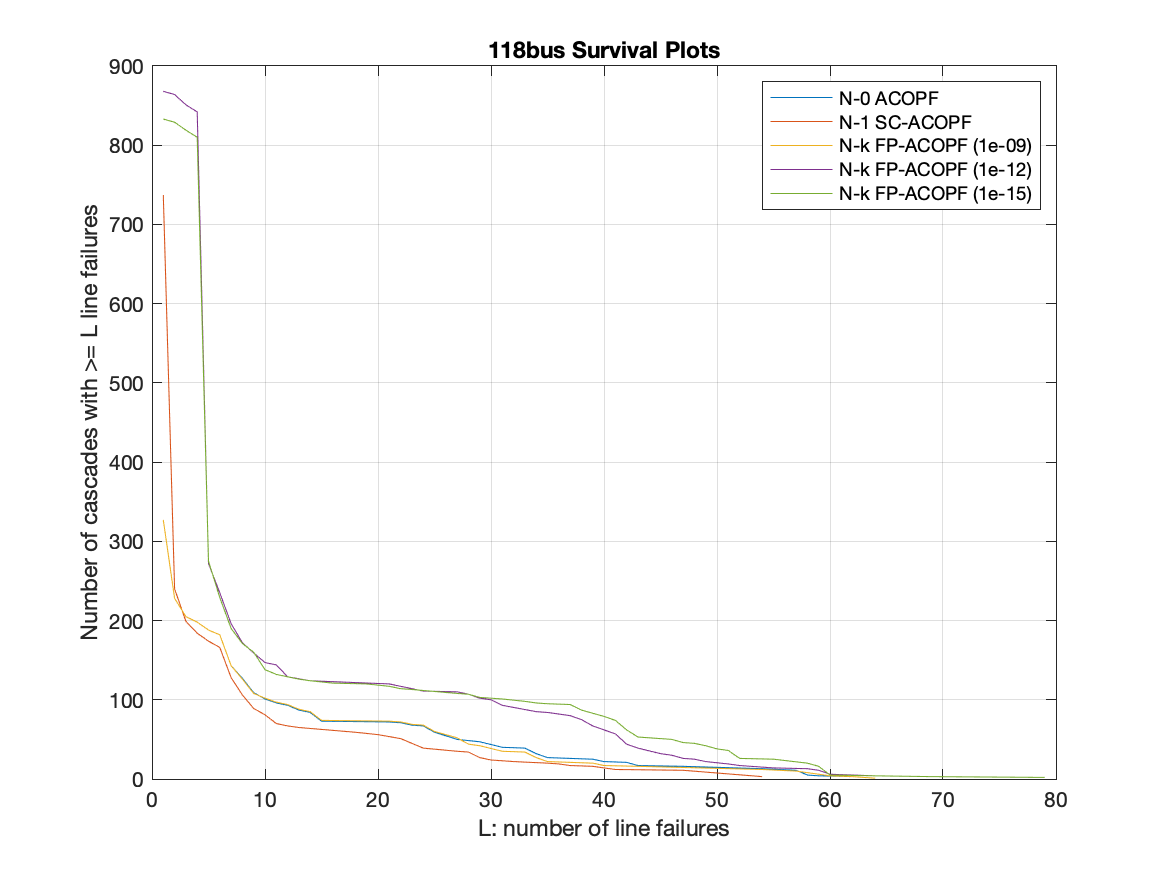
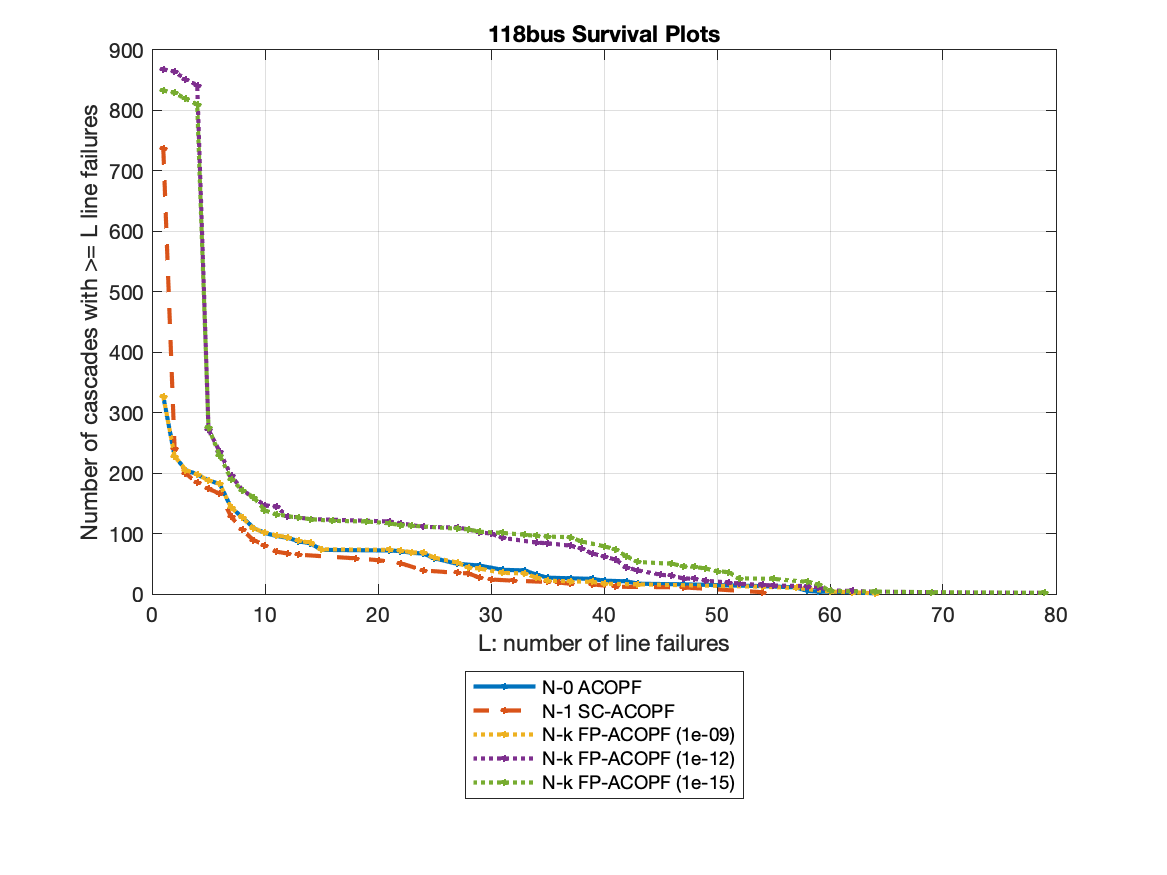
new figs

diff --git a/cascade_comparison_script_ics.m b/cascade_comparison_script_ics.m
@@ -75,31 +75,35 @@ plot_cascade_severity(co_2,'118bus N-1 SC-ACOPF','lines');
 plot_cascade_severity(co_3,'118bus N-k FP-ACOPF 1e-09','lines');
 plot_cascade_severity(co_4,'118bus N-k FP-ACOPF 1e-12','lines');
 plot_cascade_severity(co_5,'118bus N-k FP-ACOPF 1e-15','lines');
-plot_cascade_severity(co_1,'118bus N-0 ACOPF','load');
-plot_cascade_severity(co_2,'118bus N-1 SC-ACOPF','load');
-plot_cascade_severity(co_3,'118bus N-k FP-ACOPF 1e-09','load');
-plot_cascade_severity(co_4,'118bus N-k FP-ACOPF 1e-12','load');
-plot_cascade_severity(co_5,'118bus N-k FP-ACOPF 1e-15','load');
+% plot_cascade_severity(co_1,'118bus N-0 ACOPF','load');
+% plot_cascade_severity(co_2,'118bus N-1 SC-ACOPF','load');
+% plot_cascade_severity(co_3,'118bus N-k FP-ACOPF 1e-09','load');
+% plot_cascade_severity(co_4,'118bus N-k FP-ACOPF 1e-12','load');
+% plot_cascade_severity(co_5,'118bus N-k FP-ACOPF 1e-15','load');
 
 %
 %%
 %%% plotting survival
 dispatch_types = {'N-0 ACOPF', 'N-1 SC-ACOPF', 'N-k FP-ACOPF (1e-09)', 'N-k FP-ACOPF (1e-12)', 'N-k FP-ACOPF (1e-15)'};
 fnames = {co_1, co_2, co_3, co_4, co_5};
-%cdf
-plot_cascade_survival(fnames,dispatch_types,'118bus Survival Plots','lines','proportion','cdf',       'mpc_lowdamp_pgliblimits');
-plot_cascade_survival(fnames,dispatch_types,'118bus Survival Plots','lines','number','cdf',           'mpc_lowdamp_pgliblimits');
-plot_cascade_survival(fnames,dispatch_types,'118bus Survival Plots','loadlost','proportion','cdf',    'mpc_lowdamp_pgliblimits');
-plot_cascade_survival(fnames,dispatch_types,'118bus Survival Plots','loadlost','number','cdf',        'mpc_lowdamp_pgliblimits');
-plot_cascade_survival(fnames,dispatch_types,'118bus Survival Plots','loadserved','proportion','cdf',  'mpc_lowdamp_pgliblimits');
-plot_cascade_survival(fnames,dispatch_types,'118bus Survival Plots','loadserved','number','cdf',      'mpc_lowdamp_pgliblimits');
+% %cdf
+% plot_cascade_survival(fnames,dispatch_types,'118bus Survival Plots','lines','proportion','cdf',       'mpc_lowdamp_pgliblimits');
+% plot_cascade_survival(fnames,dispatch_types,'118bus Survival Plots','lines','number','cdf',           'mpc_lowdamp_pgliblimits');
+% % plot_cascade_survival(fnames,dispatch_types,'118bus Survival Plots','loadlost','proportion','cdf',    'mpc_lowdamp_pgliblimits');
+% % plot_cascade_survival(fnames,dispatch_types,'118bus Survival Plots','loadlost','number','cdf',        'mpc_lowdamp_pgliblimits');
+% plot_cascade_survival(fnames,dispatch_types,'118bus Survival Plots','loadserved_all','proportion','cdf',  'mpc_lowdamp_pgliblimits');
+% plot_cascade_survival(fnames,dispatch_types,'118bus Survival Plots','loadserved_all','number','cdf',      'mpc_lowdamp_pgliblimits');
+% plot_cascade_survival(fnames,dispatch_types,'118bus Survival Plots','loadserved_lines','proportion','cdf',  'mpc_lowdamp_pgliblimits');
+% plot_cascade_survival(fnames,dispatch_types,'118bus Survival Plots','loadserved_lines','number','cdf',      'mpc_lowdamp_pgliblimits');
 %ccdf
 plot_cascade_survival(fnames,dispatch_types,'118bus Survival Plots','lines','proportion','ccdf',      'mpc_lowdamp_pgliblimits');
 plot_cascade_survival(fnames,dispatch_types,'118bus Survival Plots','lines','number','ccdf',          'mpc_lowdamp_pgliblimits');
-plot_cascade_survival(fnames,dispatch_types,'118bus Survival Plots','loadlost','proportion','ccdf',   'mpc_lowdamp_pgliblimits');
-plot_cascade_survival(fnames,dispatch_types,'118bus Survival Plots','loadlost','number','ccdf',       'mpc_lowdamp_pgliblimits');
-plot_cascade_survival(fnames,dispatch_types,'118bus Survival Plots','loadserved','proportion','ccdf', 'mpc_lowdamp_pgliblimits');
-plot_cascade_survival(fnames,dispatch_types,'118bus Survival Plots','loadserved','number','ccdf',     'mpc_lowdamp_pgliblimits');
+% plot_cascade_survival(fnames,dispatch_types,'118bus Survival Plots','loadlost','proportion','ccdf',   'mpc_lowdamp_pgliblimits');
+% plot_cascade_survival(fnames,dispatch_types,'118bus Survival Plots','loadlost','number','ccdf',       'mpc_lowdamp_pgliblimits');
+plot_cascade_survival(fnames,dispatch_types,'118bus Survival Plots','loadserved_all','proportion','ccdf', 'mpc_lowdamp_pgliblimits');
+plot_cascade_survival(fnames,dispatch_types,'118bus Survival Plots','loadserved_all','number','ccdf',     'mpc_lowdamp_pgliblimits');
+plot_cascade_survival(fnames,dispatch_types,'118bus Survival Plots','loadserved_lines','proportion','ccdf', 'mpc_lowdamp_pgliblimits');
+plot_cascade_survival(fnames,dispatch_types,'118bus Survival Plots','loadserved_lines','number','ccdf',     'mpc_lowdamp_pgliblimits');
 
 %
 %%
@@ -176,28 +180,36 @@ plot_cascade_severity(co_2,'118bus N-1 SC-ACOPF','lines');
 plot_cascade_severity(co_3,'118bus N-k FP-ACOPF 1e-09','lines');
 plot_cascade_severity(co_4,'118bus N-k FP-ACOPF 1e-12','lines');
 plot_cascade_severity(co_5,'118bus N-k FP-ACOPF 1e-15','lines');
-plot_cascade_severity(co_1,'118bus N-0 ACOPF','load');
-plot_cascade_severity(co_2,'118bus N-1 SC-ACOPF','load');
-plot_cascade_severity(co_3,'118bus N-k FP-ACOPF 1e-09','load');
-plot_cascade_severity(co_4,'118bus N-k FP-ACOPF 1e-12','load');
-plot_cascade_severity(co_5,'118bus N-k FP-ACOPF 1e-15','load');
+% plot_cascade_severity(co_1,'118bus N-0 ACOPF','load');
+% plot_cascade_severity(co_2,'118bus N-1 SC-ACOPF','load');
+% plot_cascade_severity(co_3,'118bus N-k FP-ACOPF 1e-09','load');
+% plot_cascade_severity(co_4,'118bus N-k FP-ACOPF 1e-12','load');
+% plot_cascade_severity(co_5,'118bus N-k FP-ACOPF 1e-15','load');
 
 %
 %%
 %%% plotting survival
 dispatch_types = {'N-0 ACOPF', 'N-1 SC-ACOPF', 'N-k FP-ACOPF (1e-09)', 'N-k FP-ACOPF (1e-12)', 'N-k FP-ACOPF (1e-15)'};
 fnames = {co_1, co_2, co_3, co_4, co_5};
-%cdf
-plot_cascade_survival(fnames,dispatch_types,'118bus Survival Plots','lines','proportion','cdf',      'mpc_lowdamp_pgliblimits_allprotection');
-plot_cascade_survival(fnames,dispatch_types,'118bus Survival Plots','lines','number','cdf',          'mpc_lowdamp_pgliblimits_allprotection');
-plot_cascade_survival(fnames,dispatch_types,'118bus Survival Plots','loadlost','proportion','cdf',   'mpc_lowdamp_pgliblimits_allprotection');
-plot_cascade_survival(fnames,dispatch_types,'118bus Survival Plots','loadlost','number','cdf',       'mpc_lowdamp_pgliblimits_allprotection');
-plot_cascade_survival(fnames,dispatch_types,'118bus Survival Plots','loadserved','proportion','cdf', 'mpc_lowdamp_pgliblimits_allprotection');
-plot_cascade_survival(fnames,dispatch_types,'118bus Survival Plots','loadserved','number','cdf',     'mpc_lowdamp_pgliblimits_allprotection');
+% %cdf
+% plot_cascade_survival(fnames,dispatch_types,'118bus Survival Plots','lines','proportion','cdf',      'mpc_lowdamp_pgliblimits_allprotection');
+% plot_cascade_survival(fnames,dispatch_types,'118bus Survival Plots','lines','number','cdf',          'mpc_lowdamp_pgliblimits_allprotection');
+% % plot_cascade_survival(fnames,dispatch_types,'118bus Survival Plots','loadlost','proportion','cdf',   'mpc_lowdamp_pgliblimits_allprotection');
+% % plot_cascade_survival(fnames,dispatch_types,'118bus Survival Plots','loadlost','number','cdf',       'mpc_lowdamp_pgliblimits_allprotection');
+% plot_cascade_survival(fnames,dispatch_types,'118bus Survival Plots','loadserved_all','proportion','cdf', 'mpc_lowdamp_pgliblimits_allprotection');
+% plot_cascade_survival(fnames,dispatch_types,'118bus Survival Plots','loadserved_all','number','cdf',     'mpc_lowdamp_pgliblimits_allprotection');
+% plot_cascade_survival(fnames,dispatch_types,'118bus Survival Plots','loadserved_lines','proportion','cdf', 'mpc_lowdamp_pgliblimits_allprotection');
+% plot_cascade_survival(fnames,dispatch_types,'118bus Survival Plots','loadserved_lines','number','cdf',     'mpc_lowdamp_pgliblimits_allprotection');
 %ccdf
 plot_cascade_survival(fnames,dispatch_types,'118bus Survival Plots','lines','proportion','ccdf',     'mpc_lowdamp_pgliblimits_allprotection');
 plot_cascade_survival(fnames,dispatch_types,'118bus Survival Plots','lines','number','ccdf',         'mpc_lowdamp_pgliblimits_allprotection');
-plot_cascade_survival(fnames,dispatch_types,'118bus Survival Plots','loadlost','proportion','ccdf',  'mpc_lowdamp_pgliblimits_allprotection');
-plot_cascade_survival(fnames,dispatch_types,'118bus Survival Plots','loadlost','number','ccdf',      'mpc_lowdamp_pgliblimits_allprotection');
-plot_cascade_survival(fnames,dispatch_types,'118bus Survival Plots','loadserved','proportion','ccdf','mpc_lowdamp_pgliblimits_allprotection');
-plot_cascade_survival(fnames,dispatch_types,'118bus Survival Plots','loadserved','number','ccdf',    'mpc_lowdamp_pgliblimits_allprotection');
+% plot_cascade_survival(fnames,dispatch_types,'118bus Survival Plots','loadlost','proportion','ccdf',  'mpc_lowdamp_pgliblimits_allprotection');
+% plot_cascade_survival(fnames,dispatch_types,'118bus Survival Plots','loadlost','number','ccdf',      'mpc_lowdamp_pgliblimits_allprotection');
+plot_cascade_survival(fnames,dispatch_types,'118bus Survival Plots','loadserved_all','proportion','ccdf','mpc_lowdamp_pgliblimits_allprotection');
+plot_cascade_survival(fnames,dispatch_types,'118bus Survival Plots','loadserved_all','number','ccdf',    'mpc_lowdamp_pgliblimits_allprotection');
+plot_cascade_survival(fnames,dispatch_types,'118bus Survival Plots','loadserved_lines','proportion','ccdf','mpc_lowdamp_pgliblimits_allprotection');
+plot_cascade_survival(fnames,dispatch_types,'118bus Survival Plots','loadserved_lines','number','ccdf',    'mpc_lowdamp_pgliblimits_allprotection');
+
+
+% result1 = accfm_comparison(c_1,struct('branches',contingencies{6}),settings)
+% result2 = accfm_branch_scenarios_comparison(c_1,{contingencies{6}},settings)

diff --git a/plot_cascade_survival.m b/plot_cascade_survival.m
@@ -1,4 +1,5 @@
 function plot_cascade_survival(fnames,dispatch_types,plot_title,survival_type,display_type,cdf_type,fileout)
+  linestyles = {'-','--',':',':',':'};
   for i = 1:length(dispatch_types)
     %%% iter i
     dispatch_type = dispatch_types{i};
@@ -15,7 +16,7 @@ function plot_cascade_survival(fnames,dispatch_types,plot_title,survival_type,di
       ymax = max(ypre);
       xpre = 1:(ymax+1);
       x = 1:ymax;
-    elseif strcmp(survival_type, 'loadlost')
+    elseif strcmp(survival_type, 'loadlost_all')
       if length(fieldnames(res)) == 1
         names = fieldnames(res);
         r = getfield(res,names{1});
@@ -24,11 +25,29 @@ function plot_cascade_survival(fnames,dispatch_types,plot_title,survival_type,di
       ymax = max(ypre);
       xpre = linspace(0,ymax,1001);
       x = linspace(0,ymax,1000);
-    elseif strcmp(survival_type, 'loadserved')
+    elseif strcmp(survival_type, 'loadlost_lines')
+      if length(fieldnames(res)) == 1
+        names = fieldnames(res);
+        r = getfield(res,names{1});
+        ypre = r.ls_tripped(:,end);
+      end
+      ymax = max(ypre);
+      xpre = linspace(0,ymax,1001);
+      x = linspace(0,ymax,1000);
+    elseif strcmp(survival_type, 'loadserved_all')
       if length(fieldnames(res)) == 1
         names = fieldnames(res);
         r = getfield(res,names{1});
         ypre = 1.0 - r.lost_load_final;
+      end
+      ymax = max(ypre);
+      xpre = linspace(0,ymax,1001);
+      x = linspace(0,ymax,1000);
+    elseif strcmp(survival_type, 'loadserved_lines')
+      if length(fieldnames(res)) == 1
+        names = fieldnames(res);
+        r = getfield(res,names{1});
+        ypre = 1.0 - r.ls_tripped(:,end);
       end
       ymax = max(ypre);
       xpre = linspace(0,ymax,1001);
@@ -50,15 +69,23 @@ function plot_cascade_survival(fnames,dispatch_types,plot_title,survival_type,di
       
     %%% plot
     if strcmp(display_type,'proportion')
-      plot(xx,proportion,'DisplayName',dispatch_type)
+      plot(xx,proportion,'-o',...
+                     'MarkerSize',2,...
+                     'DisplayName',dispatch_type,...
+                     'LineWidth',2,...
+                     'LineStyle',linestyles{i})
     elseif strcmp(display_type,'number')
-      plot(xx,number,'DisplayName',dispatch_type)
+      plot(xx,number,'-o',...
+                     'MarkerSize',2,...
+                     'DisplayName',dispatch_type,...
+                     'LineWidth',2,...
+                     'LineStyle',linestyles{i})
     end
     hold on
   end
 
   %%% formatting
-  legend
+  legend('Location', 'southoutside')
   if strcmp(survival_type, 'lines')
     xlabel('L: number of line failures')
     if strcmp(display_type, 'proportion')
